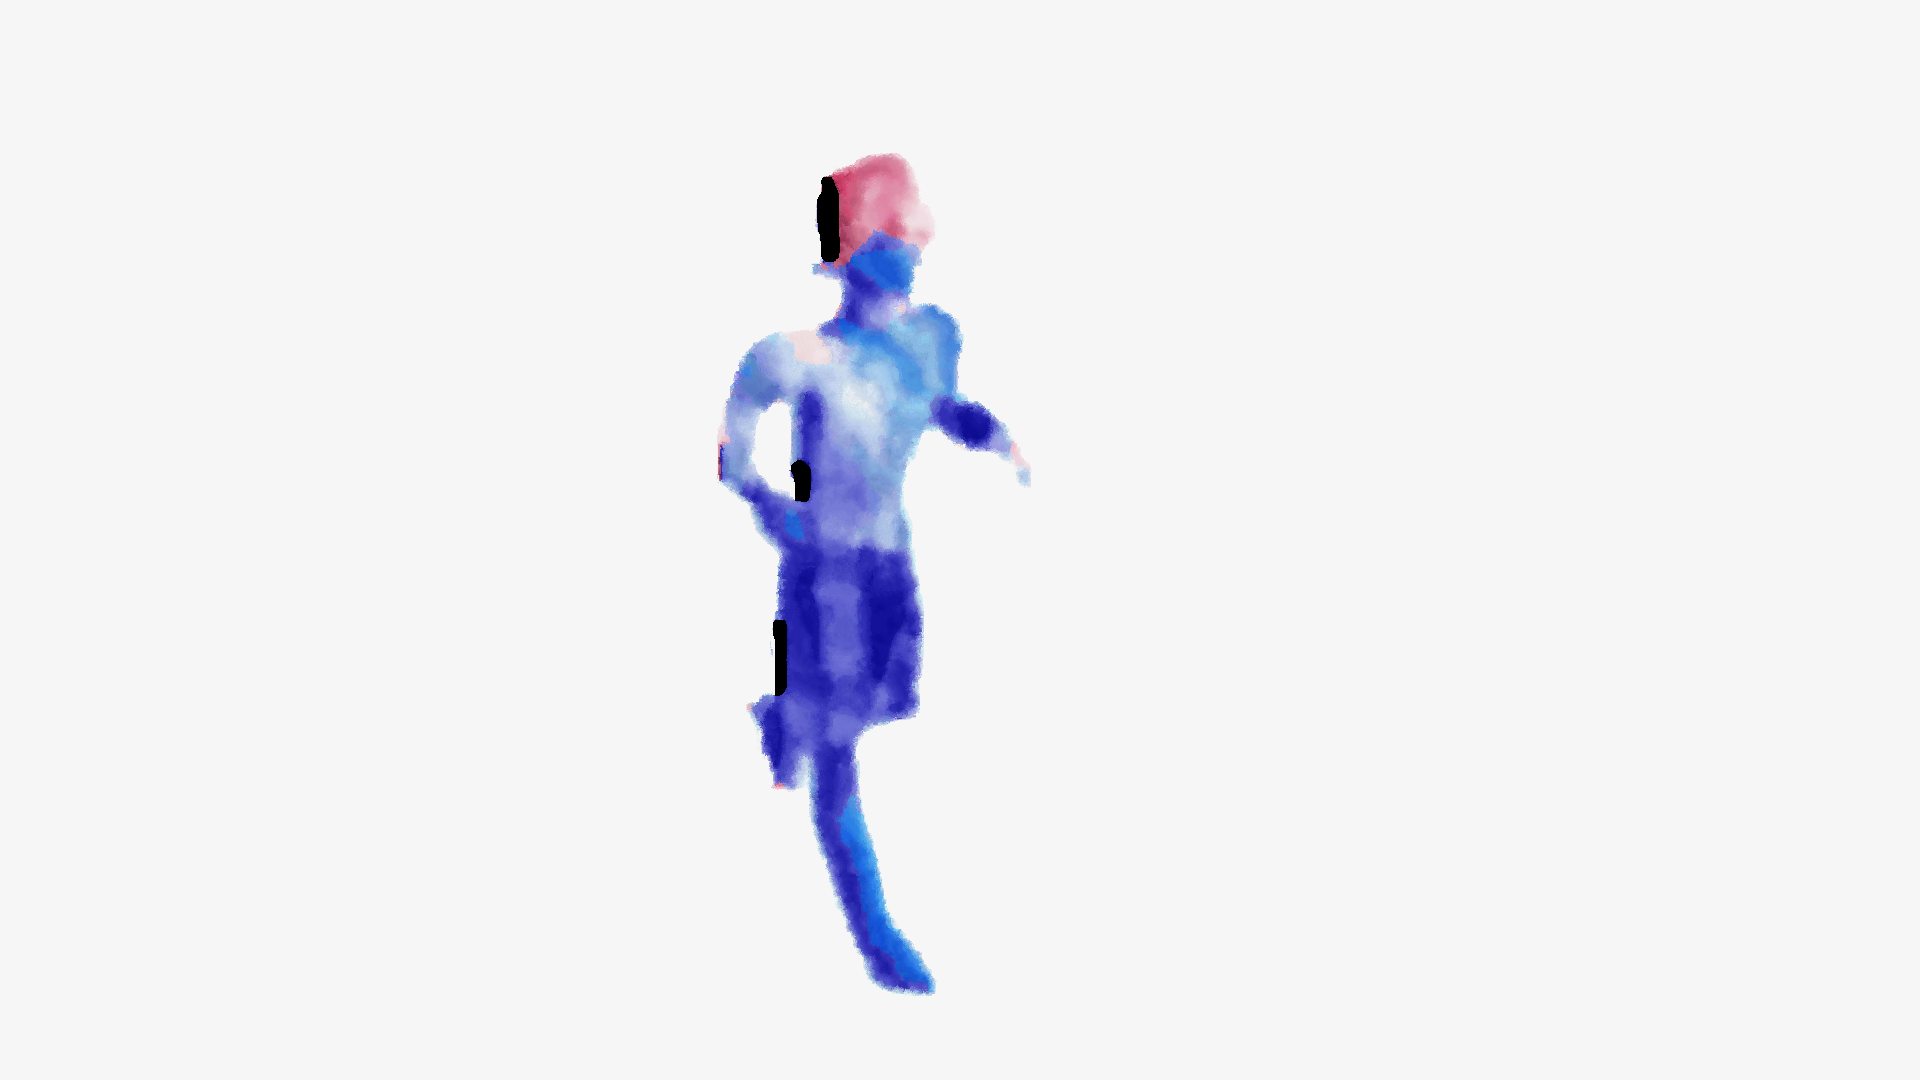
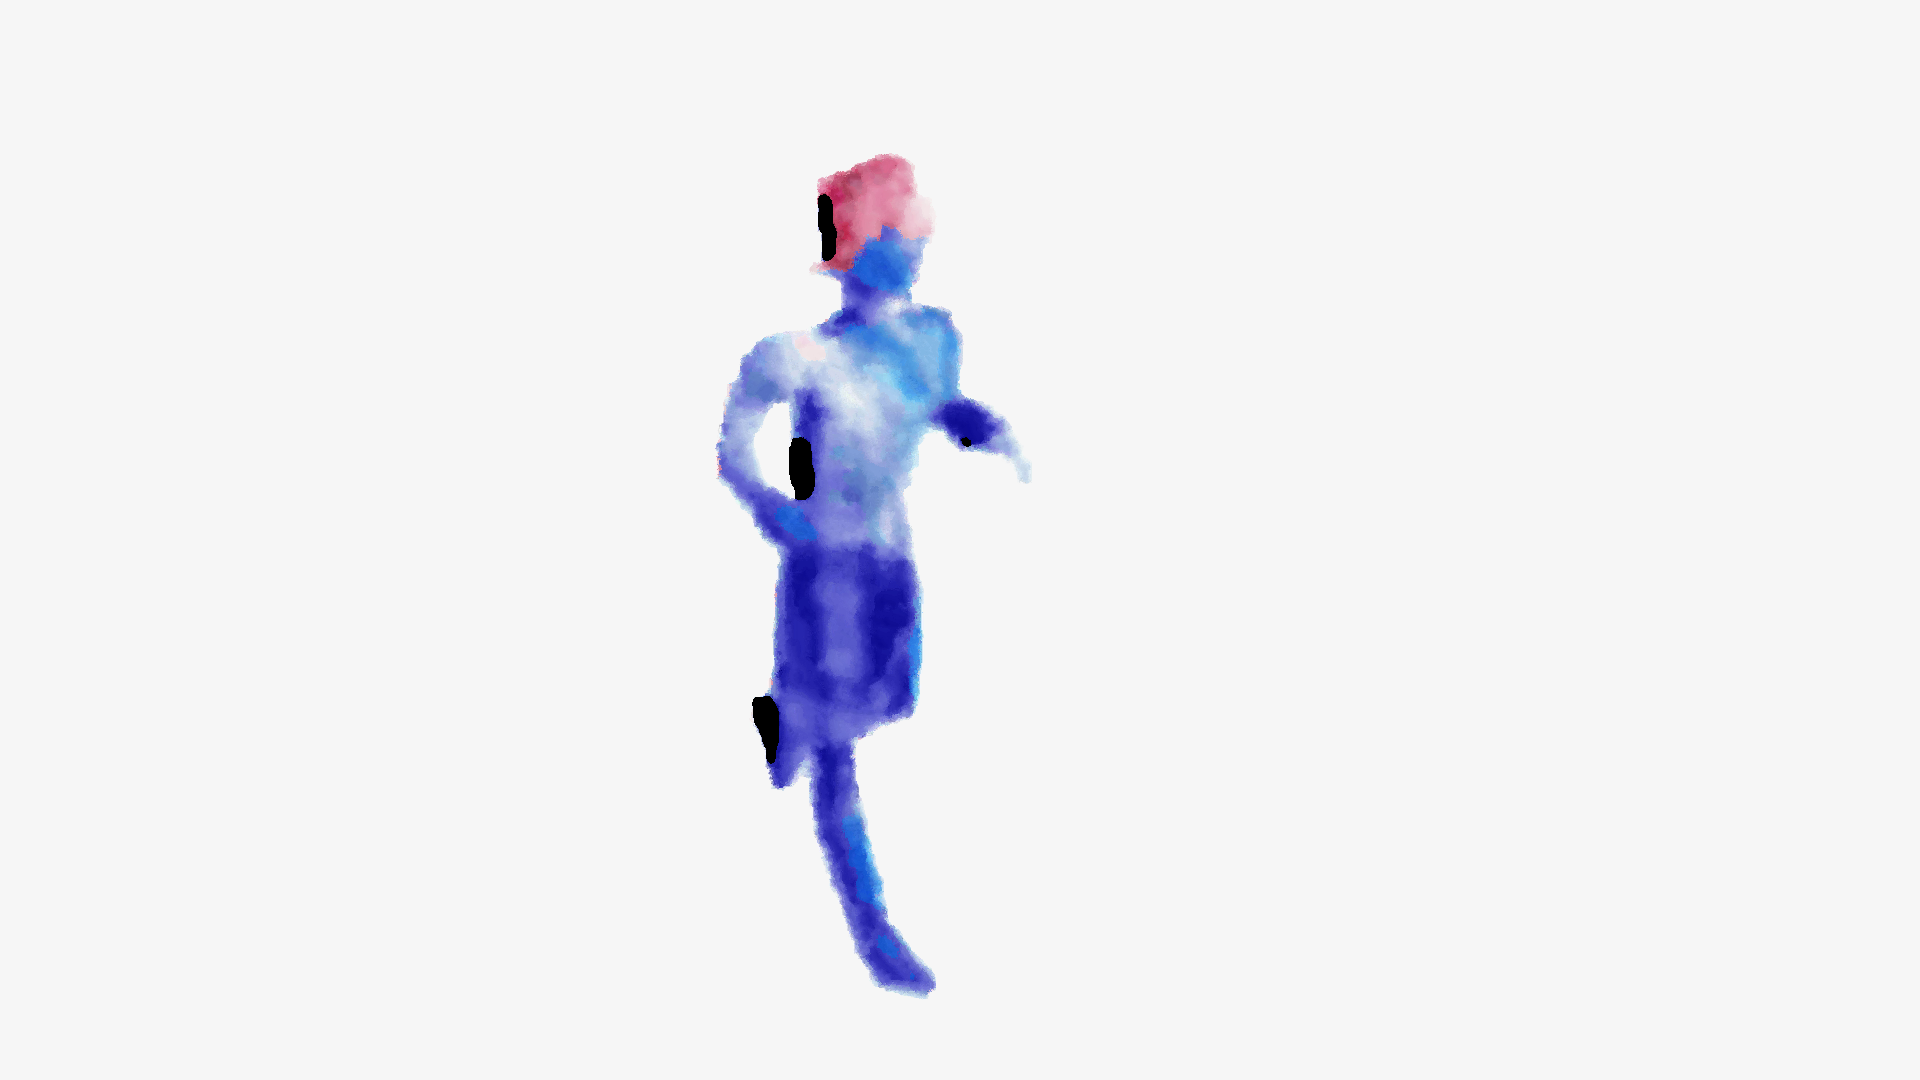
attempt to fix black spots, not successful :(

Changed region(s): [[0.375, 0.1528, 0.5312, 0.5194], [0.375, 0.5806, 0.5, 0.9167], [0.4688, 0.5194, 0.5, 0.6722]]

diff --git a/patchmatch.cpp b/patchmatch.cpp
@@ -40,8 +40,8 @@ std::vector<RGBA> extractPatch(const std::vector<RGBA>& image, int x, int y, int
 }
 
 void PatchMatch::patchmatch(const std::vector<RGBA>& imageA, const std::vector<RGBA>& imageB,
-                          int width, int height, int patchSize,
-                          std::vector<std::pair<int, int>>& nnf) {
+                            int width, int height, int patchSize,
+                            std::vector<std::pair<int, int>>& nnf) {
     const int wLimit = width - patchSize + 1;
     const int hLimit = height - patchSize + 1;
     nnf.resize(wLimit * hLimit);
@@ -51,14 +51,18 @@ void PatchMatch::patchmatch(const std::vector<RGBA>& imageA, const std::vector<R
     std::uniform_int_distribution<> distribX(0, wLimit - 1);
     std::uniform_int_distribution<> distribY(0, hLimit - 1);
 
-    // initialize NNF randomly
+    // Initialize NNF randomly with clamping
     for (int y = 0; y < hLimit; ++y) {
         for (int x = 0; x < wLimit; ++x) {
-            nnf[y * wLimit + x] = {distribX(gen), distribY(gen)};
+            int tx = distribX(gen);
+            int ty = distribY(gen);
+            tx = std::clamp(tx, 0, wLimit - 1);
+            ty = std::clamp(ty, 0, hLimit - 1);
+            nnf[y * wLimit + x] = {tx, ty};
         }
     }
 
-    // iterate and refine
+    // Iterate and refine
     const int iterations = 3;
     for (int iter = 0; iter < iterations; ++iter) {
         bool reverse = (iter % 2 == 1);
@@ -75,37 +79,42 @@ void PatchMatch::patchmatch(const std::vector<RGBA>& imageA, const std::vector<R
 
             for (int x = xStart; x != xEnd; x += xStep) {
                 auto& best_match = nnf[y * wLimit + x];
+                best_match.first  = std::clamp(best_match.first,  0, wLimit - 1);
+                best_match.second = std::clamp(best_match.second, 0, hLimit - 1);
+
                 int best_dist = patchDistance(imageA, imageB, x, y,
                                               best_match.first, best_match.second,
                                               width, patchSize);
 
-                // propagation with neighbor's match
+                // Propagation
                 if (!reverse) {
                     if (x > 0) {
-                        const auto& left = nnf[y * wLimit + (x - 1)];
-                        if (left.first < wLimit) {
-                            int dist = patchDistance(imageA, imageB, x, y,
-                                                     left.first, left.second, width, patchSize);
-                            if (dist < best_dist) {
-                                best_match = left;
-                                best_dist = dist;
-                            }
+                        auto left = nnf[y * wLimit + (x - 1)];
+                        left.first  = std::clamp(left.first,  0, wLimit - 1);
+                        left.second = std::clamp(left.second, 0, hLimit - 1);
+
+                        int dist = patchDistance(imageA, imageB, x, y,
+                                                 left.first, left.second, width, patchSize);
+                        if (dist < best_dist) {
+                            best_match = left;
+                            best_dist = dist;
                         }
                     }
                     if (y > 0) {
-                        const auto& top = nnf[(y - 1) * wLimit + x];
-                        if (top.second < hLimit) {
-                            int dist = patchDistance(imageA, imageB, x, y,
-                                                     top.first, top.second, width, patchSize);
-                            if (dist < best_dist) {
-                                best_match = top;
-                                best_dist = dist;
-                            }
+                        auto top = nnf[(y - 1) * wLimit + x];
+                        top.first  = std::clamp(top.first,  0, wLimit - 1);
+                        top.second = std::clamp(top.second, 0, hLimit - 1);
+
+                        int dist = patchDistance(imageA, imageB, x, y,
+                                                 top.first, top.second, width, patchSize);
+                        if (dist < best_dist) {
+                            best_match = top;
+                            best_dist = dist;
                         }
                     }
                 }
 
-                // random search w exponentially decreasing window
+                // Random search
                 int radius = std::max(width, height) / 2;
                 while (radius >= 1) {
                     int min_x = std::max(0, best_match.first - radius);
@@ -119,6 +128,9 @@ void PatchMatch::patchmatch(const std::vector<RGBA>& imageA, const std::vector<R
                     int rx = randX(gen);
                     int ry = randY(gen);
 
+                    rx = std::clamp(rx, 0, wLimit - 1);
+                    ry = std::clamp(ry, 0, hLimit - 1);
+
                     int dist = patchDistance(imageA, imageB, x, y, rx, ry, width, patchSize);
                     if (dist < best_dist) {
                         best_match = {rx, ry};
@@ -131,100 +143,3 @@ void PatchMatch::patchmatch(const std::vector<RGBA>& imageA, const std::vector<R
         }
     }
 }
-
-
-// void PatchMatch::patchmatch(const std::vector<RGBA>& imageA, const std::vector<RGBA>& imageB,
-//                           int width, int height, int patchSize,
-//                           std::vector<std::pair<int, int>>& nnf) {
-//     // Initialize random number generator
-//     std::random_device rd;
-//     std::mt19937 gen(rd());
-//     std::uniform_int_distribution<> distribX(0, width - patchSize);
-//     std::uniform_int_distribution<> distribY(0, height - patchSize);
-
-//     // 1. Initialize NNF randomly
-//     for (int y = 0; y < height - patchSize + 1; ++y) {
-//         for (int x = 0; x < width - patchSize + 1; ++x) {
-//             nnf[y * (width - patchSize + 1) + x] = {distribX(gen), distribY(gen)};
-//         }
-//     }
-
-//     // 2. Iterate and refine
-//     const int iterations = 5;  // Increased from 1
-//     for (int iter = 0; iter < iterations; ++iter) {
-//         bool reverse = (iter % 2 == 1);
-
-//         for (int y = reverse ? height-patchSize : 0;
-//              reverse ? y >= 0 : y < height-patchSize+1;
-//              reverse ? y-- : y++) {
-
-//             for (int x = reverse ? width-patchSize : 0;
-//                  reverse ? x >= 0 : x < width-patchSize+1;
-//                  reverse ? x-- : x++) {
-
-//                 auto& best_match = nnf[y * (width-patchSize+1) + x];
-//                 int best_dist = patchDistance(
-//                     extractPatch(imageA, x, y, width, patchSize),
-//                     extractPatch(imageB, best_match.first, best_match.second, width, patchSize)
-//                     );
-
-//                 // Propagation - use neighbor's match directly
-//                 if (x > 0 && !reverse) {
-//                     const auto& left_match = nnf[y * (width-patchSize+1) + (x-1)];
-//                     if (left_match.first < width-patchSize) {
-//                         int dist = patchDistance(
-//                             extractPatch(imageA, x, y, width, patchSize),
-//                             extractPatch(imageB, left_match.first, left_match.second, width, patchSize)
-//                             );
-//                         if (dist < best_dist) {
-//                             best_match = left_match;
-//                             best_dist = dist;
-//                         }
-//                     }
-//                 }
-
-//                 if (y > 0 && !reverse) {
-//                     const auto& top_match = nnf[(y-1) * (width-patchSize+1) + x];
-//                     if (top_match.second < height-patchSize) {
-//                         int dist = patchDistance(
-//                             extractPatch(imageA, x, y, width, patchSize),
-//                             extractPatch(imageB, top_match.first, top_match.second, width, patchSize)
-//                             );
-//                         if (dist < best_dist) {
-//                             best_match = top_match;
-//                             best_dist = dist;
-//                         }
-//                     }
-//                 }
-
-//                 // Random search with exponentially decreasing window
-//                 int search_radius = std::max(width, height)/2;
-//                 while (search_radius >= 1) {
-//                     int min_x = std::max(0, best_match.first - search_radius);
-//                     int max_x = std::min(width-patchSize, best_match.first + search_radius);
-//                     int min_y = std::max(0, best_match.second - search_radius);
-//                     int max_y = std::min(height-patchSize, best_match.second + search_radius);
-
-//                     std::uniform_int_distribution<> distribX(min_x, max_x);
-//                     std::uniform_int_distribution<> distribY(min_y, max_y);
-
-//                     int rx = distribX(gen);
-//                     int ry = distribY(gen);
-
-//                     int dist = patchDistance(
-//                         extractPatch(imageA, x, y, width, patchSize),
-//                         extractPatch(imageB, rx, ry, width, patchSize)
-//                         );
-
-//                     if (dist < best_dist) {
-//                         best_match = {rx, ry};
-//                         best_dist = dist;
-//                     }
-
-//                     search_radius /= 2;
-//                 }
-//             }
-//         }
-//     }
-// }
-

diff --git a/noisemaker.cpp b/noisemaker.cpp
@@ -5,6 +5,7 @@
 #include <cmath>
 #include <iostream>
 #include "patchmatch.h"
+#include <random>
 
 NoiseMaker::NoiseMaker()
 {
@@ -115,6 +116,12 @@ std::vector<RGBA> NoiseMaker::predeform(
                 motion = motionVectors[pixelIndex];
             }
 
+            // attempt at making it more exaggerated
+            float exaggeration = 3.f;
+            motion *= exaggeration;
+            // float noiseAmount = 1.0f;
+            // motion += Eigen::Vector2f(randFloat(-noiseAmount, noiseAmount), randFloat(-noiseAmount, noiseAmount));
+
             float srcX = x + motion(0);
             float srcY = y + motion(1);
 
@@ -140,7 +147,7 @@ void NoiseMaker::reconstructImage(
 {
     outputImage.resize(width * height);
 
-    // unique ID per color to check frqs
+    // For counting color frequencies
     struct ColorHash {
         size_t operator()(const RGBA& c) const {
             return (c.r << 16) | (c.g << 8) | c.b;
@@ -156,26 +163,26 @@ void NoiseMaker::reconstructImage(
 
     int nnfWidth = width - patchSize + 1;
 
-    // count color frequencies
+    // Accumulate color frequencies from patches
     for (int y = 0; y < height - patchSize + 1; ++y) {
         for (int x = 0; x < width - patchSize + 1; ++x) {
             int srcPatchIdx = y * nnfWidth + x;
             if (srcPatchIdx >= nnf.size()) continue;
 
-            auto [targetX, targetY] = nnf[srcPatchIdx];
+            auto [matchX, matchY] = nnf[srcPatchIdx];
 
             for (int dy = 0; dy < patchSize; ++dy) {
                 for (int dx = 0; dx < patchSize; ++dx) {
                     int srcX = x + dx;
                     int srcY = y + dy;
-                    int targetX = nnf[srcPatchIdx].first + dx;
-                    int targetY = nnf[srcPatchIdx].second + dy;
+                    int dstX = matchX + dx;
+                    int dstY = matchY + dy;
 
                     if (srcX >= 0 && srcX < width && srcY >= 0 && srcY < height &&
-                        targetX >= 0 && targetX < width && targetY >= 0 && targetY < height)
+                        dstX >= 0 && dstX < width && dstY >= 0 && dstY < height)
                     {
                         int srcIdx = srcY * width + srcX;
-                        int targetIdx = targetY * width + targetX;
+                        int targetIdx = dstY * width + dstX;
                         RGBA color = targetImage[targetIdx];
                         pixelColors[srcIdx][color]++;
                     }
@@ -184,10 +191,9 @@ void NoiseMaker::reconstructImage(
         }
     }
 
-    //  mode for each pixel
+    // Reconstruct image using most frequent color for each pixel
     for (int i = 0; i < width * height; ++i) {
         if (!pixelColors[i].empty()) {
-            // Find color with maximum count
             auto mode = std::max_element(
                 pixelColors[i].begin(),
                 pixelColors[i].end(),
@@ -195,20 +201,21 @@ void NoiseMaker::reconstructImage(
                     return a.second < b.second;
                 }
                 );
-            outputImage[i] = mode->first;
+            outputImage[i] = {mode->first.r, mode->first.g, mode->first.b, 255}; // Ensure alpha = 255
         } else {
-            // if no patches contributed
+            // If no contributions, fall back to source image
             outputImage[i] = sourceImage[i];
         }
     }
 }
+
 
 std::vector<Eigen::Vector2f> NoiseMaker::estimateMotion(
     const std::vector<RGBA>& currentFrame, int currentWidth, int currentHeight,
     const std::vector<RGBA>& previousFrame, int previousWidth, int previousHeight) {
 
     const int blockSize = 8; // Size of block for matching
-    const int searchRange = 16; // Maximum search distance
+    const int searchRange = 8; // Maximum search distance
 
     // Initialize motion vectors (default to zero motion)
     std::vector<Eigen::Vector2f> motionVectors(currentWidth * currentHeight, Eigen::Vector2f::Zero());
